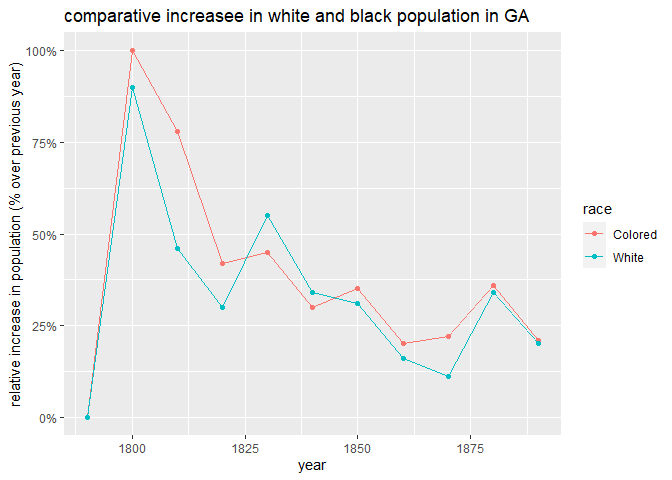
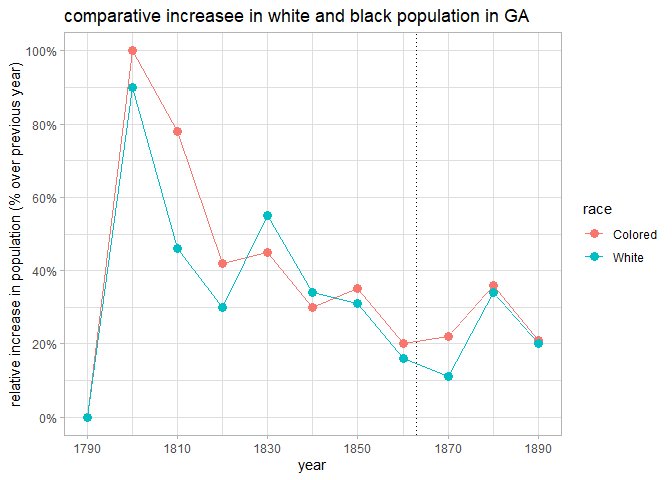
more graph tweaks

diff --git a/2021_02_16_dubois_challenge/dubois_challenge.html b/2021_02_16_dubois_challenge/dubois_challenge.html
@@ -417,6 +417,9 @@ summary {
 </div>
 
 
+<div id="dubois-challenge" class="section level1">
+<h1>Dubois Challenge</h1>
+<p>TidyTuesday page on github with data set and background info. <a href="https://github.com/rfordatascience/tidytuesday/blob/master/data/2021/2021-02-16/readme.md" class="uri">https://github.com/rfordatascience/tidytuesday/blob/master/data/2021/2021-02-16/readme.md</a></p>
 <pre class="r"><code>library(tidyverse)
 library(dplyr)
 library(ggplot2)
@@ -436,13 +439,17 @@ library(tidytuesdayR)</code></pre>
   pivot_longer(Colored:White,names_to=&quot;race&quot;,values_to=&quot;pop&quot;) %&gt;%
   mutate(pop=pop/100) %&gt;%
   ggplot(aes(Year,pop,color=race)) +
-  geom_point() +
+  geom_point(size=3) +
   geom_line()+
   labs(title=&quot;comparative increasee in white and black population in GA&quot;,
        x=&quot;year&quot;,
        y=&quot;relative increase in population (% over previous year)&quot;)+
-  scale_y_continuous(labels = scales::percent)</code></pre>
[1 lines of base64/hex data omitted]
+  scale_y_continuous(labels = scales::percent, minor_breaks = seq(0 , 1, .1),breaks =seq(0,1,.2))+
+  scale_x_continuous(limits=c(1790,1890),minor_breaks = seq(1790 , 1890, 10),breaks=seq(1790,1890,20))+
+  geom_vline(xintercept=1863,color=&quot;black&quot;,linetype=&quot;dotted&quot;)+
+  theme_light()</code></pre>
[1 lines of base64/hex data omitted]
+</div>
 
 
 

diff --git a/2021_02_16_dubois_challenge/dubois_challenge.md b/2021_02_16_dubois_challenge/dubois_challenge.md
@@ -7,6 +7,10 @@ output:
     keep_md: yes
 ---
 
+# Dubois Challenge
+
+TidyTuesday page on github with data set and background info. https://github.com/rfordatascience/tidytuesday/blob/master/data/2021/2021-02-16/readme.md
+
 
 
 
@@ -44,12 +48,15 @@ ga_pop %>%
   pivot_longer(Colored:White,names_to="race",values_to="pop") %>%
   mutate(pop=pop/100) %>%
   ggplot(aes(Year,pop,color=race)) +
-  geom_point() +
+  geom_point(size=3) +
   geom_line()+
   labs(title="comparative increasee in white and black population in GA",
        x="year",
        y="relative increase in population (% over previous year)")+
-  scale_y_continuous(labels = scales::percent)
+  scale_y_continuous(labels = scales::percent, minor_breaks = seq(0 , 1, .1),breaks =seq(0,1,.2))+
+  scale_x_continuous(limits=c(1790,1890),minor_breaks = seq(1790 , 1890, 10),breaks=seq(1790,1890,20))+
+  geom_vline(xintercept=1863,color="black",linetype="dotted")+
+  theme_light()
 ```
 
 ![](dubois_challenge_files/figure-html/unnamed-chunk-4-1.png)<!-- -->
